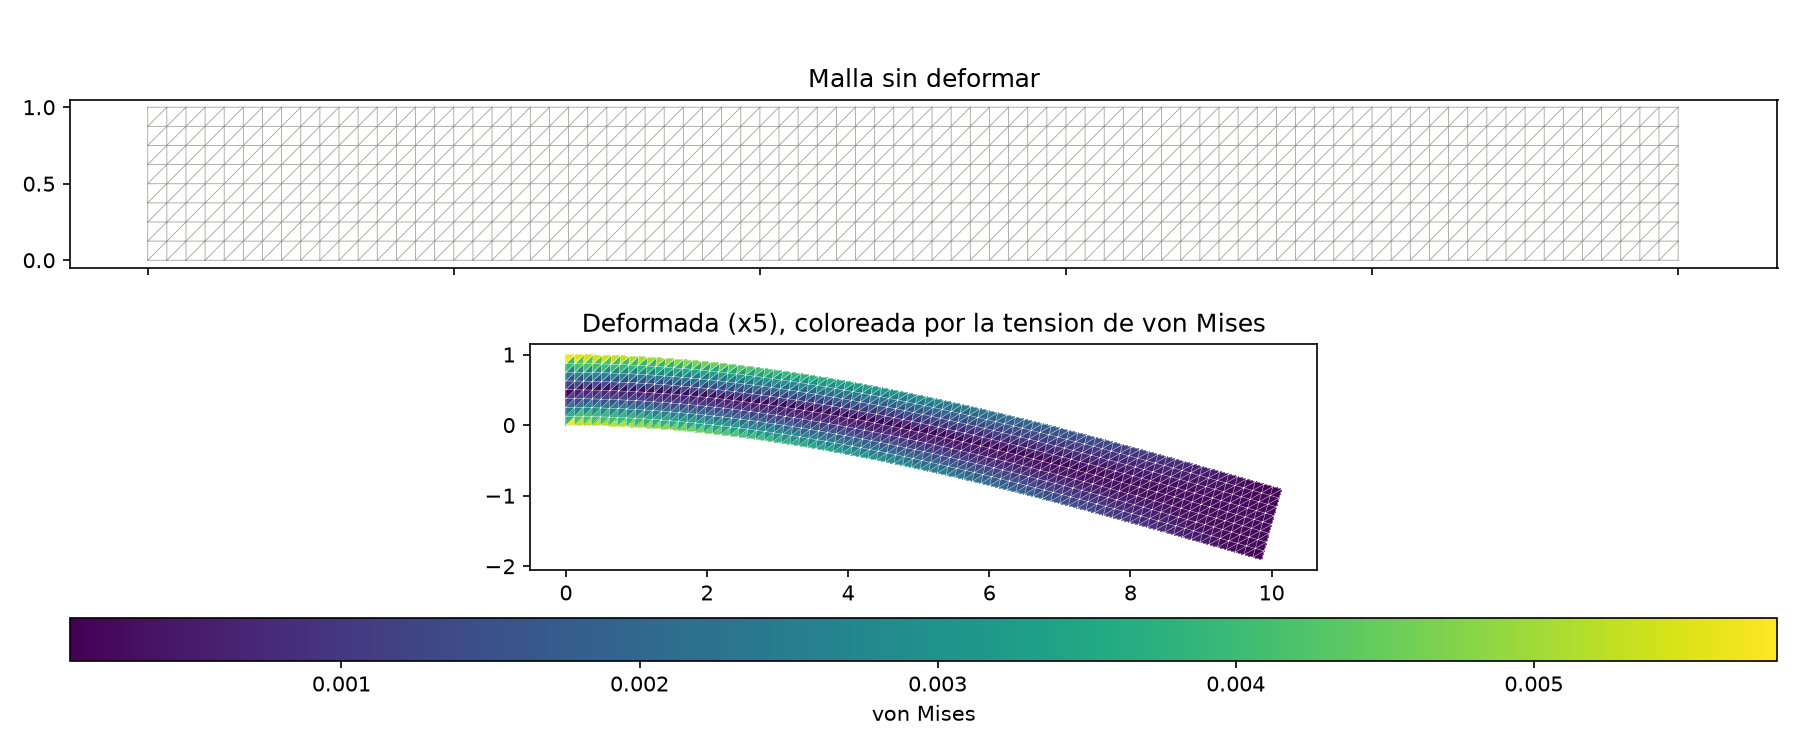
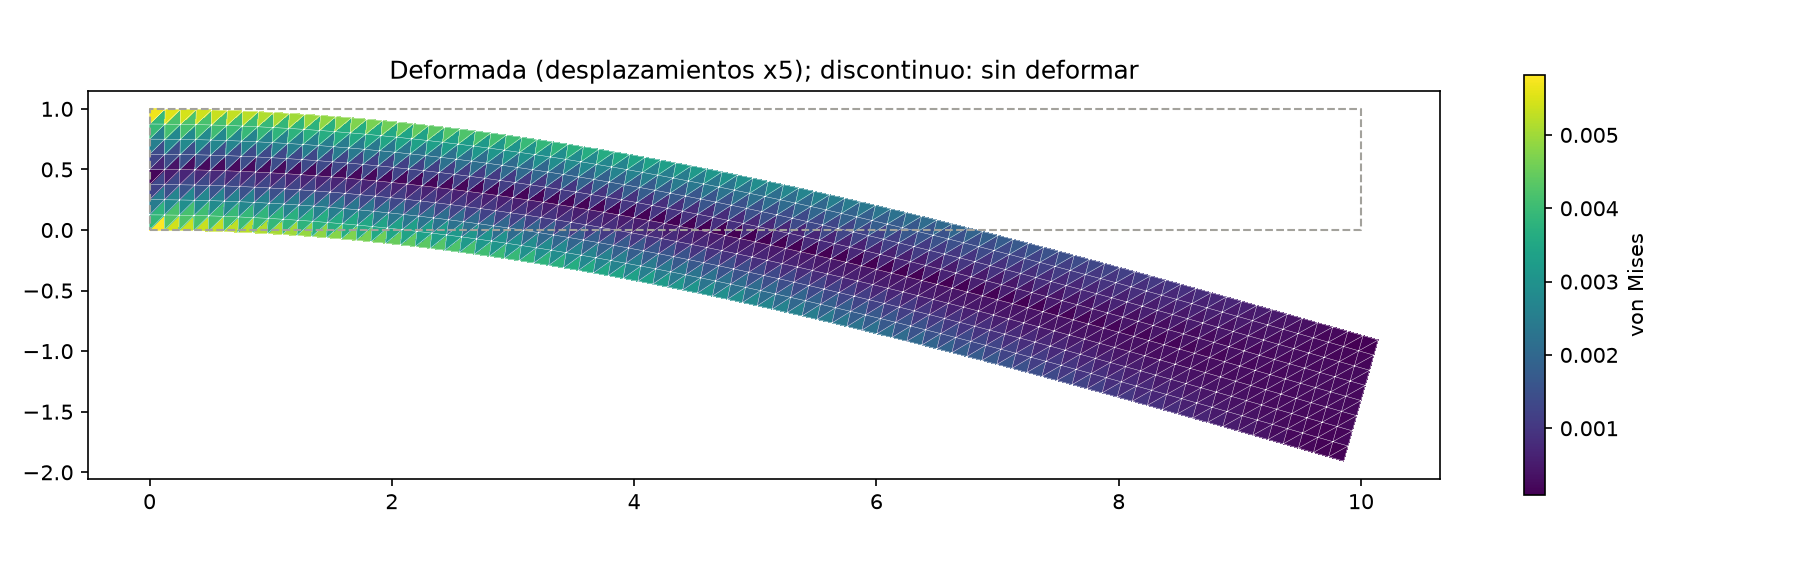
Unidad 11: figuras de la tensión de von Mises y del orden de convergencia, y ejercicios más sencillos

diff --git a/11_elementos_finitos/graficar.py b/11_elementos_finitos/graficar.py
@@ -1,7 +1,9 @@
-# Dibuja la viga deformada, coloreada por la tensión de von Mises.
+# Dibuja la viga deformada y la tensión de von Mises.
 # Antes hay que ejecutar  make run.
 #
 #     python graficar.py
+#
+# Escribe resultados/deformada.png y resultados/von_mises.png.
 import numpy as np
 import matplotlib.pyplot as plt
 import matplotlib.tri as mtri
@@ -10,22 +12,47 @@ x, y, ux, uy = np.loadtxt("resultados/nodos.dat", unpack=True)
 tri = np.loadtxt("resultados/triangulos.dat", dtype=int) - 1     # en Fortran empiezan en 1
 vm = np.loadtxt("resultados/tension.dat")
 
-escala = 5      # la deformacion se exagera para que se vea
+lx, ly = x.max(), y.max()
+carga = 1.0e-4                  # la de estatico.nml
+escala = 5                      # la deformacion se exagera para que se vea
 
-fig, (arriba, abajo) = plt.subplots(2, 1, figsize=(12, 5), sharex=True)
-
-arriba.triplot(mtri.Triangulation(x, y, tri), color="#a3a29c", lw=0.4)
-arriba.set_title("Malla sin deformar")
-arriba.set_aspect("equal")
-
+# Figura 1: la deformada, coloreada por von Mises, sobre el contorno sin deformar.
+fig, ax = plt.subplots(figsize=(12, 3.8))
+ax.plot([0, lx, lx, 0, 0], [0, 0, ly, ly, 0], color="#a3a29c", ls="--", lw=1)
 malla = mtri.Triangulation(x + escala * ux, y + escala * uy, tri)
-mapa = abajo.tripcolor(malla, facecolors=vm, cmap="viridis")
-abajo.triplot(malla, color="white", lw=0.2)
-abajo.set_title(f"Deformada (x{escala}), coloreada por la tension de von Mises")
-abajo.set_aspect("equal")
-fig.colorbar(mapa, ax=abajo, orientation="horizontal", pad=0.15, aspect=40, label="von Mises")
-
+mapa = ax.tripcolor(malla, facecolors=vm, cmap="viridis")
+ax.triplot(malla, color="white", lw=0.2)
+ax.set_title(f"Deformada (desplazamientos x{escala}); discontinuo: sin deformar")
+ax.set_aspect("equal")
+fig.colorbar(mapa, ax=ax, label="von Mises", shrink=0.8)
 fig.tight_layout()
 fig.savefig("resultados/deformada.png", dpi=150)
-print("Figura escrita en resultados/deformada.png")
+
+# Figura 2: von Mises sobre la viga sin deformar y en la cara superior, frente a la teoría.
+# En la teoría de vigas la tensión es sigma = M (y - ly/2) / I, con M = carga (lx - x) e
+# I = ly**3 / 12. Se compara en el centro de los triángulos que tocan la cara superior.
+xc = x[tri].mean(axis=1)
+yc = y[tri].mean(axis=1)
+h = ly / len(np.unique(y)[1:])                      # alto de una casilla
+arriba = yc > ly - h / 2
+orden = np.argsort(xc[arriba])
+x_arriba = xc[arriba][orden]
+teoria = carga * (lx - x_arriba) * (yc[arriba][orden] - ly / 2) / (ly**3 / 12)
+
+fig, (campo, corte) = plt.subplots(2, 1, figsize=(12, 6.5), height_ratios=[1, 1.4])
+mapa = campo.tripcolor(mtri.Triangulation(x, y, tri), facecolors=vm, cmap="viridis")
+campo.set_title("Tension de von Mises, sobre la viga sin deformar")
+campo.set_aspect("equal")
+fig.colorbar(mapa, ax=campo, label="von Mises", shrink=0.8)
+
+corte.plot(x_arriba, vm[arriba][orden], "o", ms=3, color="#2a78d6",
+           label="elementos finitos (triangulos de la cara superior)")
+corte.plot(x_arriba, teoria, color="#eb6834", lw=1.5, label="teoria de vigas")
+corte.set_xlabel("x")
+corte.set_ylabel("von Mises")
+corte.legend()
+fig.tight_layout()
+fig.savefig("resultados/von_mises.png", dpi=150)
+
+print("Figuras escritas en resultados/deformada.png y resultados/von_mises.png")
 plt.show()

diff --git a/11_elementos_finitos/graficar_orden.py b/11_elementos_finitos/graficar_orden.py
@@ -1,0 +1,20 @@
+# Error de los elementos finitos frente al tamaño de la malla, en escala logarítmica.
+# Antes hay que ejecutar  make run-orden.
+#
+#     python graficar_orden.py
+import numpy as np
+import matplotlib.pyplot as plt
+
+casillas, error = np.loadtxt("resultados/orden.dat", unpack=True)
+h = 1 / casillas
+
+fig, ax = plt.subplots(figsize=(6, 4.5))
+ax.loglog(h, error, "o-", color="#2a78d6", lw=2, label="error maximo en los nodos")
+ax.loglog(h, error[0] * (h / h[0])**2, color="#a3a29c", ls="--", label="pendiente 2")
+ax.set_xlabel("h (lado de una casilla)")
+ax.set_ylabel("error")
+ax.legend()
+fig.tight_layout()
+fig.savefig("resultados/orden.png", dpi=150)
+print("Figura escrita en resultados/orden.png")
+plt.show()

diff --git a/11_elementos_finitos/README.md b/11_elementos_finitos/README.md
@@ -22,8 +22,15 @@ Cociente:                              0.954
 
 ![Viga deformada](figuras/deformada.png)
 
-El color es la tensión de von Mises: máxima en las caras superior e inferior junto al empotramiento y
-casi nula en la línea central, como predice la teoría de vigas.
+El color es la tensión de von Mises, una medida de la tensión en cada punto que se usa para saber si
+el material aguanta. En la figura siguiente se ve sobre la viga sin deformar y, debajo, en los
+triángulos de la cara superior:
+
+![Tensión de von Mises](figuras/von_mises.png)
+
+Es máxima en las caras superior e inferior junto al empotramiento, casi nula en la línea central y
+decrece linealmente hacia el extremo libre. La teoría de vigas da en la cara superior
+`σ = P (L - x) (ly/2) / I`, con `I = ly³/12`, y los elementos finitos quedan un 3 % por encima.
 
 ## Método
 
@@ -50,7 +57,7 @@ estática es `K u = f`.
 ├── solido.f90          programa principal
 ├── orden_espacial.f90  programa que mide el orden de convergencia
 ├── *.nml, Makefile
-└── graficar.py, graficar_vibracion.py
+└── graficar.py, graficar_orden.py, graficar_vibracion.py
 ```
 
 `solido` usa `malla`, `elasticidad`, `algebra` y `dinamica`; `dinamica` usa `algebra`; y
@@ -84,6 +91,7 @@ solución exacta es la elegida:
 
 ```bash
 make run-orden
+python graficar_orden.py
 ```
 
 ```
@@ -94,6 +102,8 @@ make run-orden
         32       1.2307E-03      1.99
 OK: orden 2.
 ```
+
+![Orden de convergencia](figuras/orden.png)
 
 ## Vibraciones
 
@@ -139,12 +149,10 @@ físico, fijan el paso, y son más altas cuanto más fina es la malla.
 
 ## Ejercicios
 
-1. Con `estatico.nml`, prueba mallas de 20 × 2, 40 × 4, 80 × 8 y 120 × 12, comprueba la tabla y anota
-   el tiempo de cada una.
-2. Duplica el espesor (`ly = 2`) y mide el cambio en la flecha; repite con doble longitud. La teoría
-   da una flecha proporcional a `L³ / ly³`.
+1. Con `estatico.nml`, prueba las mallas de 20 × 2, 40 × 4 y 80 × 8 y comprueba la tabla de la
+   flecha.
+2. Duplica el espesor (`ly = 2`). Según la teoría, la flecha es proporcional a `1 / ly³`: comprueba
+   que se divide aproximadamente por 8.
 3. En `vibracion_explicito.nml`, busca por tanteo el mayor `dt` que no explota y compáralo con el
-   calculado. Repite con una malla de 40 × 4.
-4. Pon `nu = 0.49` (casi incompresible) y observa el efecto sobre la flecha y sobre `ω_max`.
-5. Empotra también el lado derecho y calcula la deformación con una fuerza hacia abajo repartida por
-   todo el cuerpo (`m * g` en cada nodo).
+   que imprime el programa.
+4. Pon `nu = 0.49` y observa cómo cambia la flecha.
